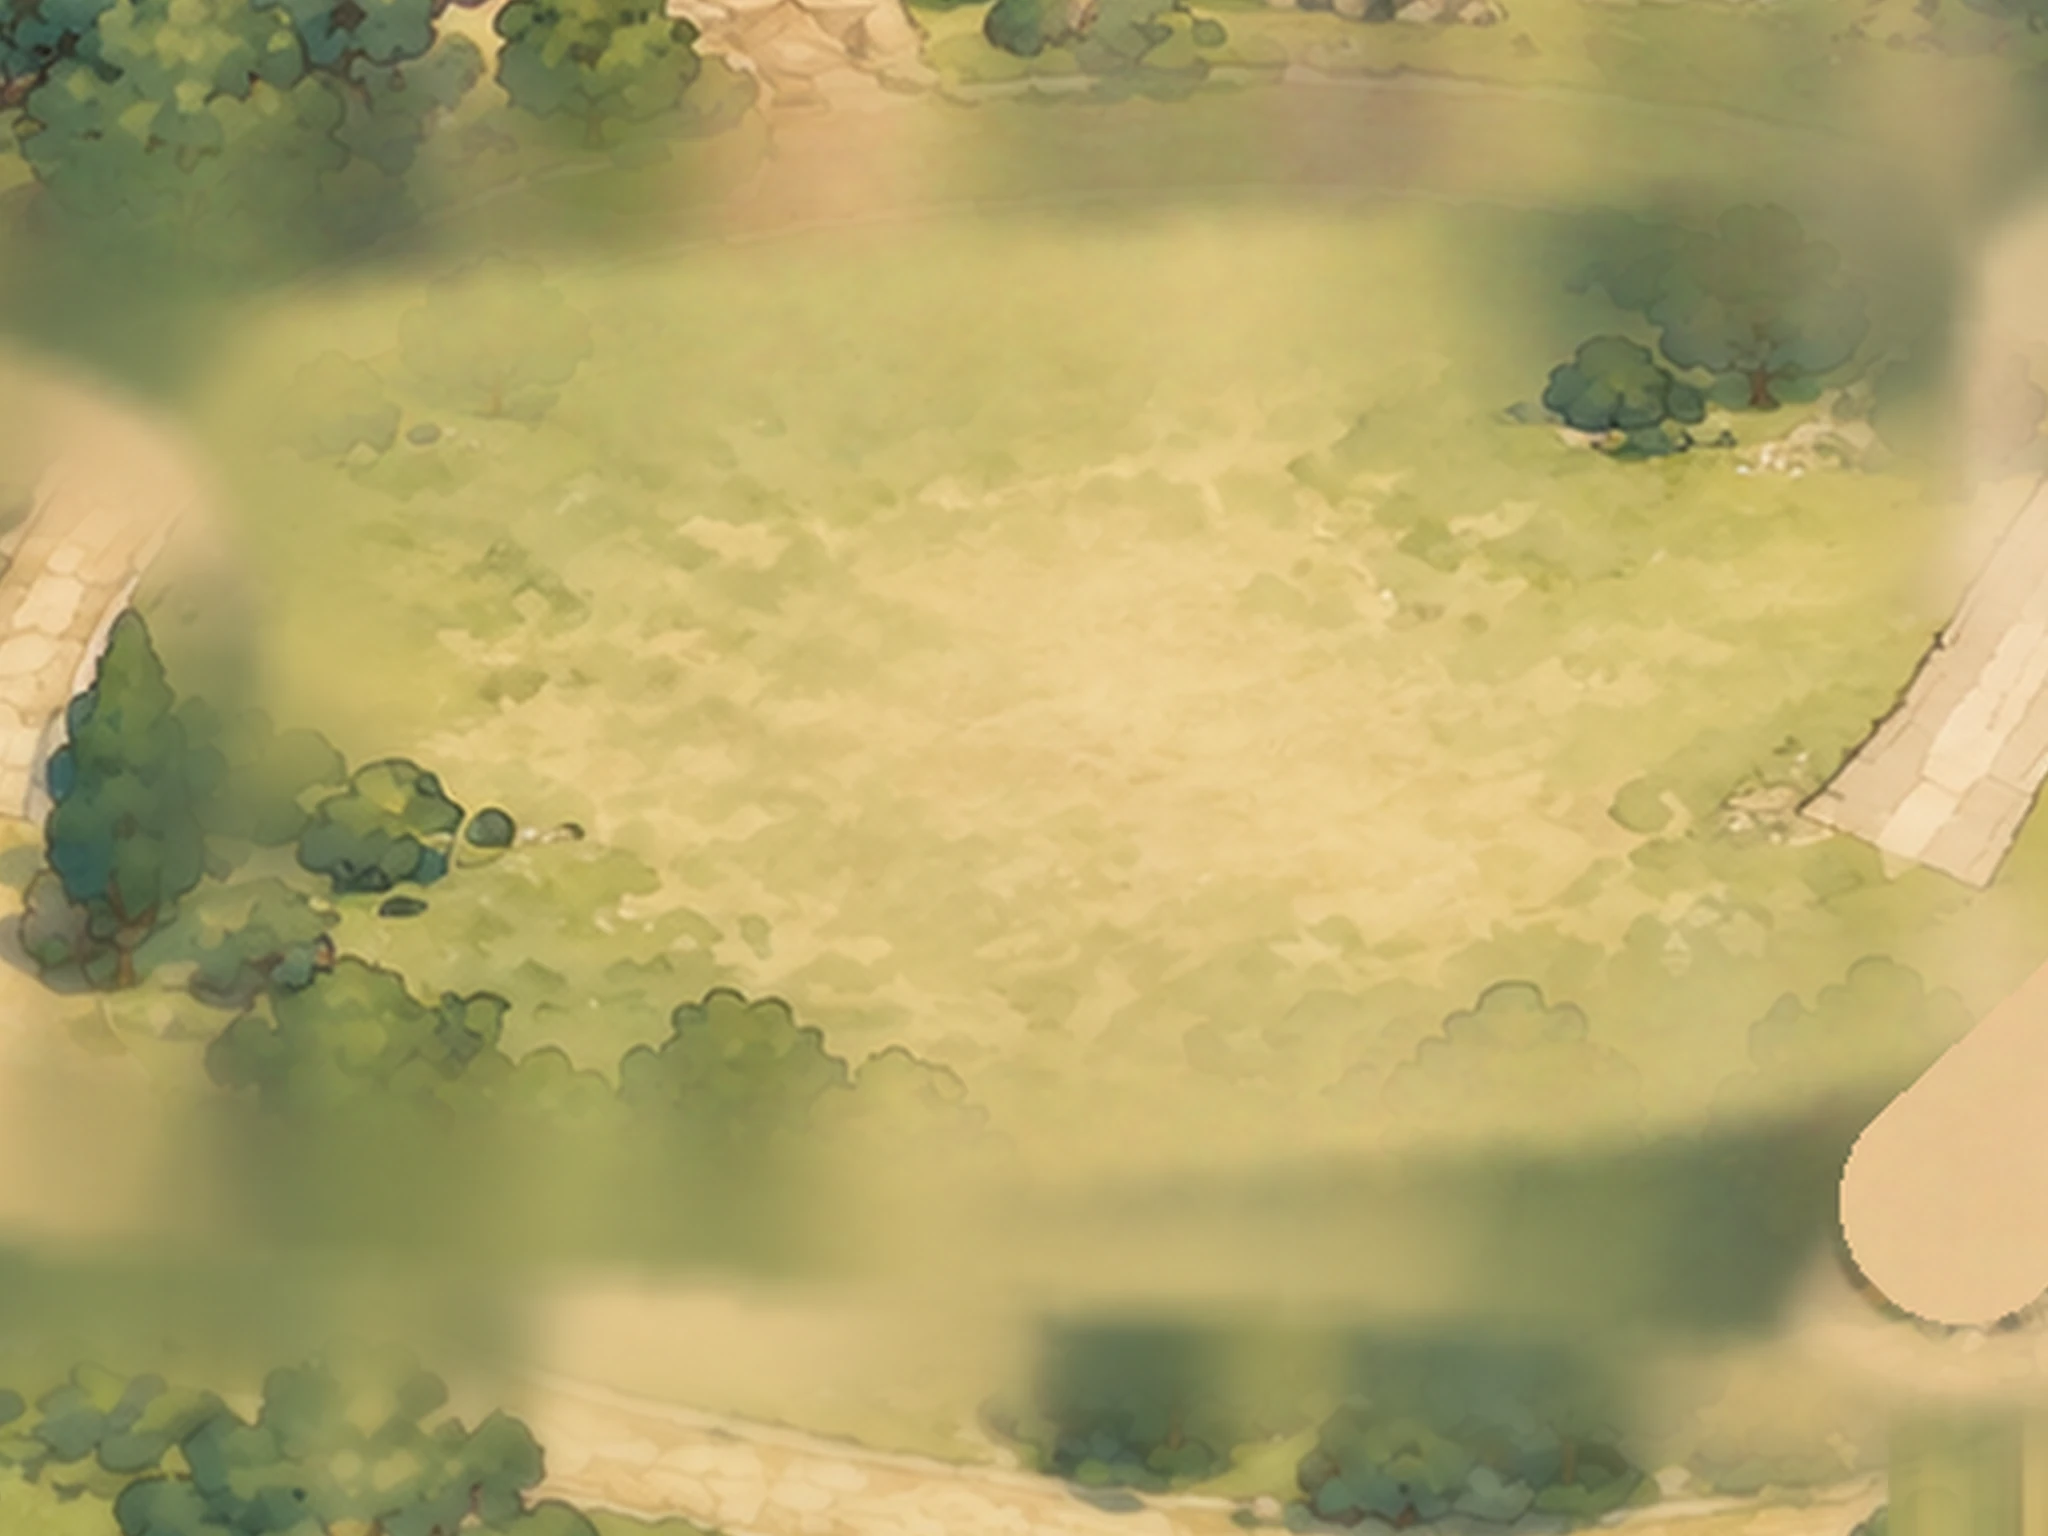
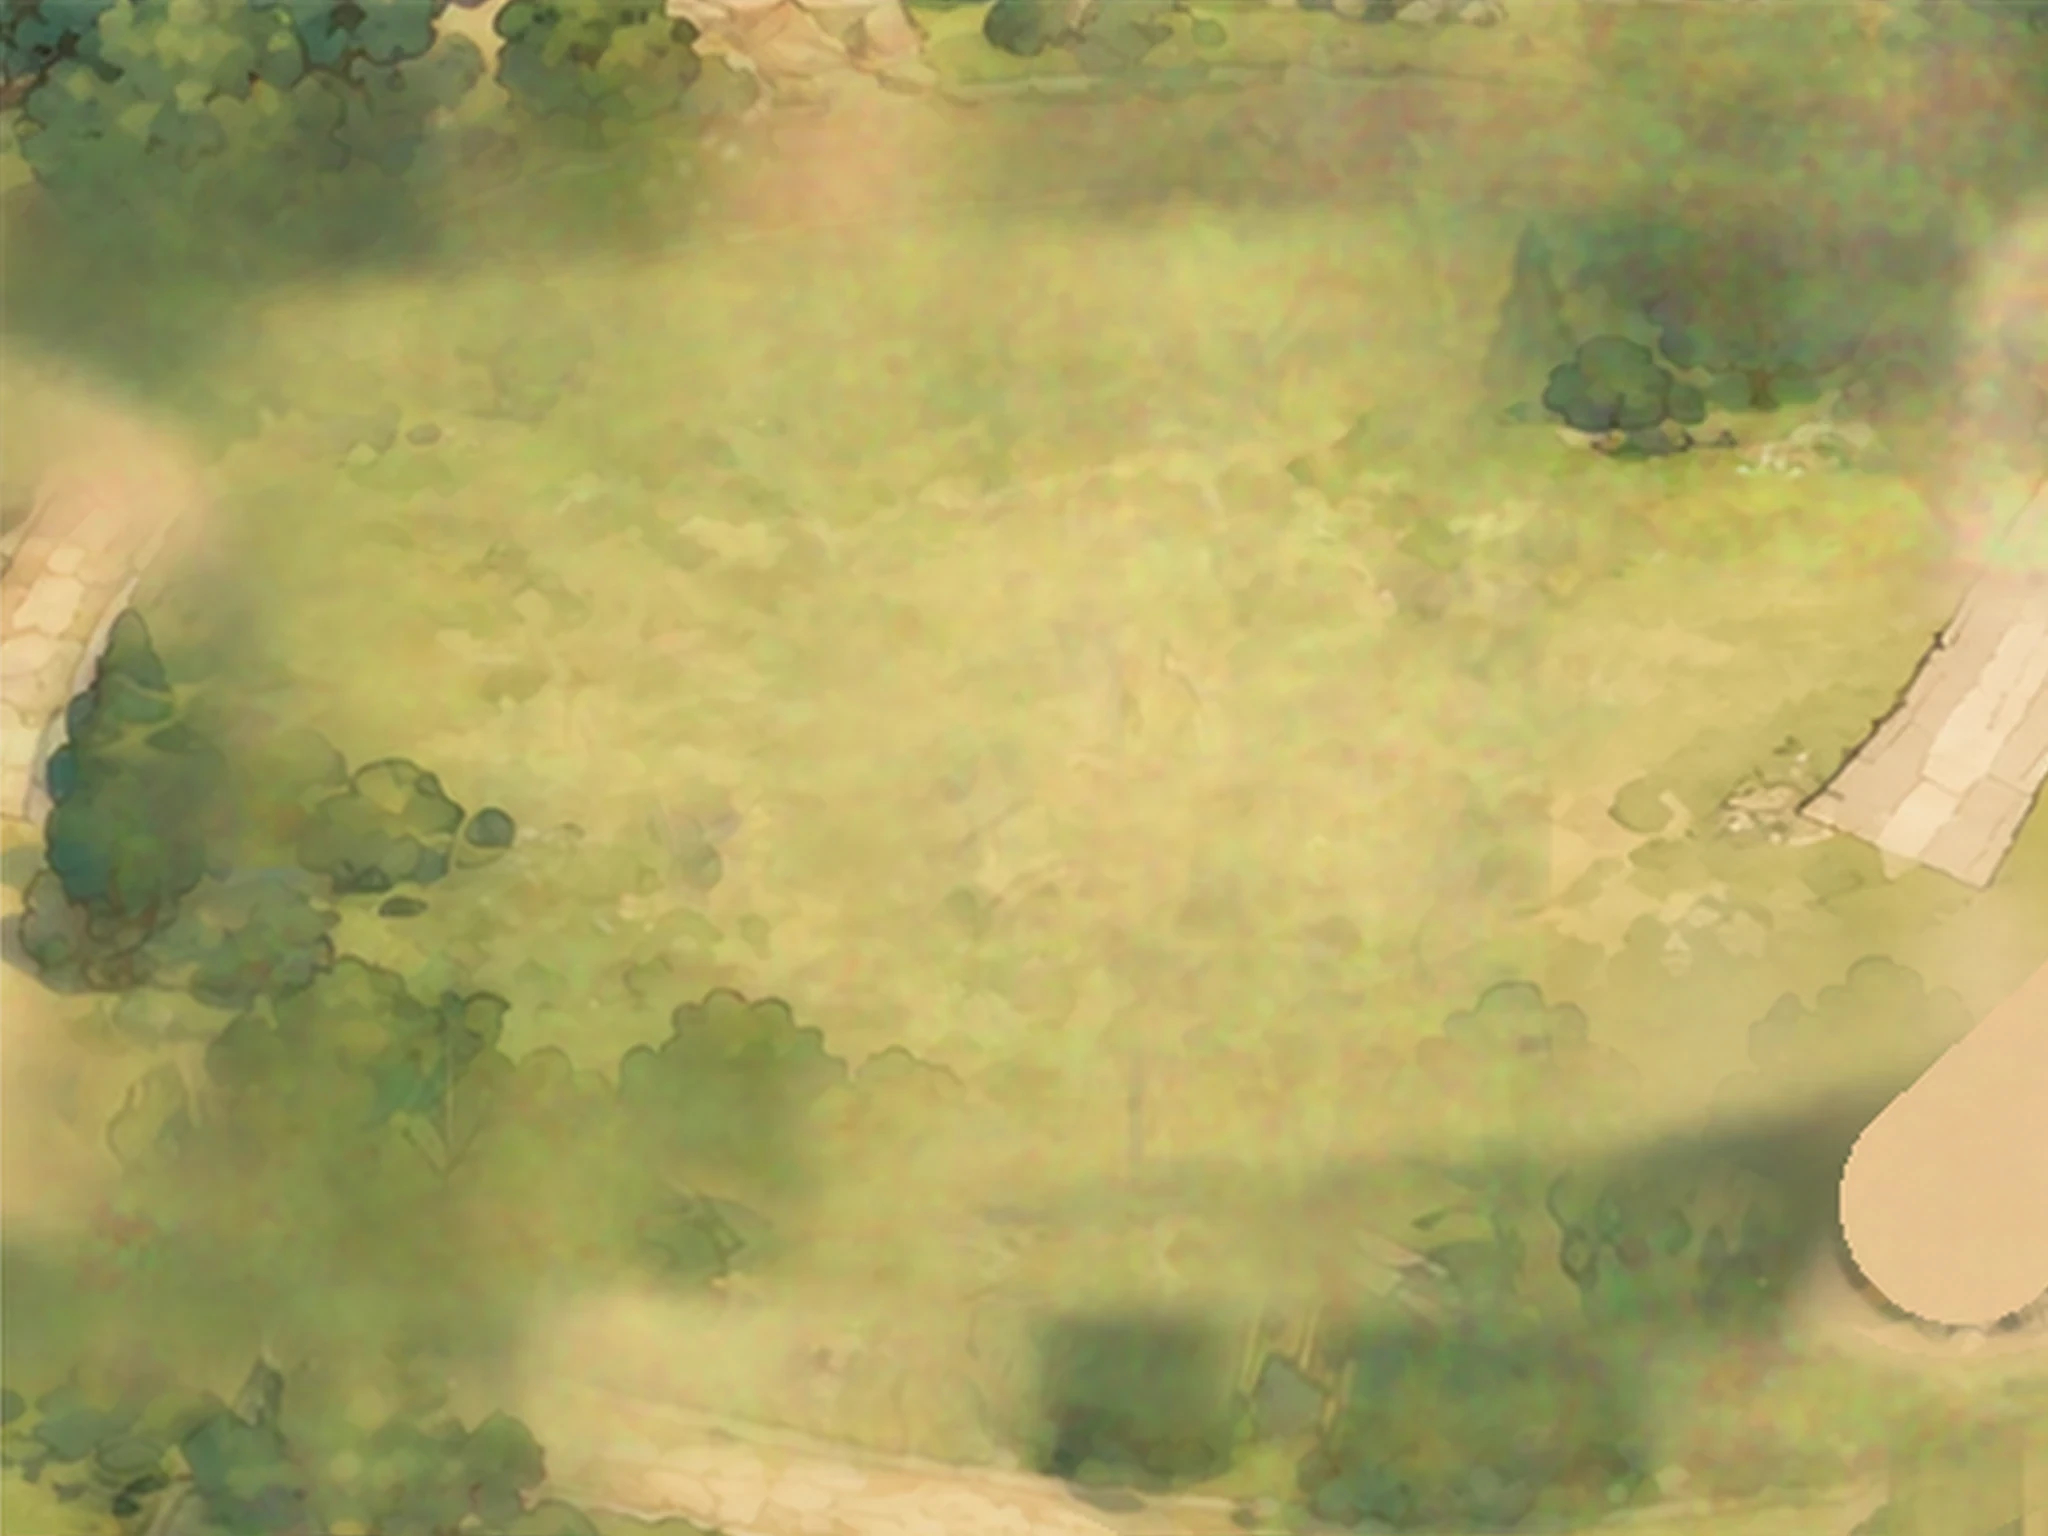
Phase 3.7: polish illustrated city terrain [skip ci]

diff --git a/tools/check_portfolio_city_phase37_visual_polish.py b/tools/check_portfolio_city_phase37_visual_polish.py
@@ -1,0 +1,49 @@
+from pathlib import Path
+import hashlib
+import json
+from PIL import Image
+
+ROOT = Path(__file__).resolve().parents[1]
+MANIFEST = ROOT / "docs" / "phase3-7-runtime-manifest.json"
+
+def fail(message: str) -> None:
+    raise SystemExit(f"Phase 3.7 visual polish contract failed: {message}")
+
+data = json.loads(MANIFEST.read_text(encoding="utf-8"))
+if data.get("phase") != "3.7":
+    fail("unexpected phase")
+chunks = data.get("chunks", {})
+if data.get("chunkCount") != 13 or len(chunks) != 13:
+    fail("expected exactly 13 terrain chunks")
+
+total = 0
+for chunk_id, item in chunks.items():
+    path = ROOT / item["file"]
+    if not path.is_file():
+        fail(f"missing {chunk_id}: {item['file']}")
+    raw = path.read_bytes()
+    total += len(raw)
+    if len(raw) != item["bytes"]:
+        fail(f"byte mismatch for {chunk_id}")
+    sha = hashlib.sha256(raw).hexdigest()
+    if sha != item["sha256"]:
+        fail(f"SHA mismatch for {chunk_id}")
+    with Image.open(path) as image:
+        if image.size != (item["width"], item["height"]):
+            fail(f"dimension mismatch for {chunk_id}")
+        if image.size != (2048, 1536):
+            fail(f"unexpected runtime dimensions for {chunk_id}")
+
+if total != data.get("totalBytes"):
+    fail("totalBytes mismatch")
+qa = data.get("qa", {})
+recon = qa.get("reconstruction", {})
+if recon.get("maxSeamMean", 10**9) > recon.get("baselineMaxSeamMean", -1):
+    fail("seam mean regressed from baseline")
+if recon.get("maxSeamP95", 10**9) > recon.get("baselineMaxSeamP95", -1):
+    fail("seam p95 regressed from baseline")
+
+print(
+    "Portfolio City Phase 3.7 visual polish contract passed: "
+    f"{len(chunks)} chunks / {total} bytes / seam metrics improved"
+)

diff --git a/docs/PHASE3_7_HANDOFF.md b/docs/PHASE3_7_HANDOFF.md
@@ -1,0 +1,30 @@
+# Phase 3.7 Visual Polish Handoff
+
+## Status
+- Base: merged R6 main `57c4f20d5e3d716f375545982fea7b8cd78f1bf3`
+- Candidate branch: `phase3-7-visual-polish`
+- Scope: terrain art polish only. World geometry, 13-chunk topology, 14 project placements, road widths, clearings, HoloCa geometry are unchanged.
+- Runtime assets: 13 WebP files at 2048x1536, q90.
+
+## Visual direction
+- Watercolor storybook puzzle-adventure town atmosphere.
+- Larger vegetation masses, quieter grass planes, restrained stone/garden accents, softer shoreline treatment.
+- Generated art was used only as style/texture donor. Runtime geometry remained authoritative.
+
+## P3.1 cleanup
+- North-to-Middle directional smear was reduced with a targeted reconstruction mask.
+- South grass high-frequency vertical noise was reduced into broader watercolor texture.
+- Final hi-res reconstruction blend inside the cleanup mask: 0.82 target / 0.18 original detail.
+- Max seam mean improved from 32.552 to 19.045.
+- Max seam p95 improved from 80.0 to 69.0.
+
+## Browser QA
+- 390 / 820 / 1440: PASS
+- terrain chunks/resources: 13/13
+- terrain mode: full
+- horizontal overflow: 0
+- severe console errors: 0
+- desktop drag at 1440: PASS
+
+## Release rule
+Do not merge or deploy without explicit user approval. Keep GitHub Actions / metered work avoided; commits use `[skip ci]` where applicable.
